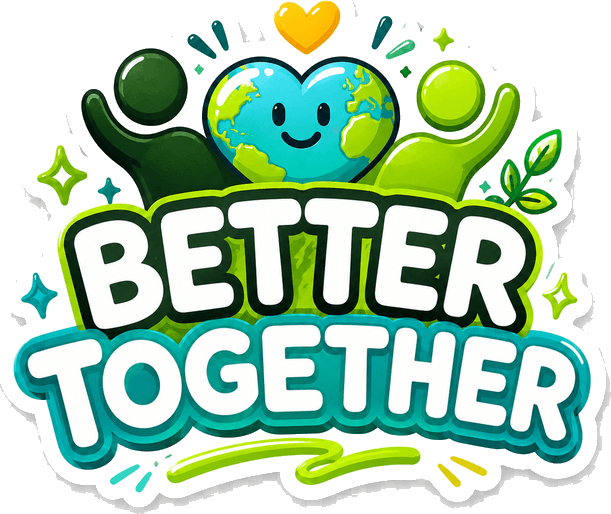
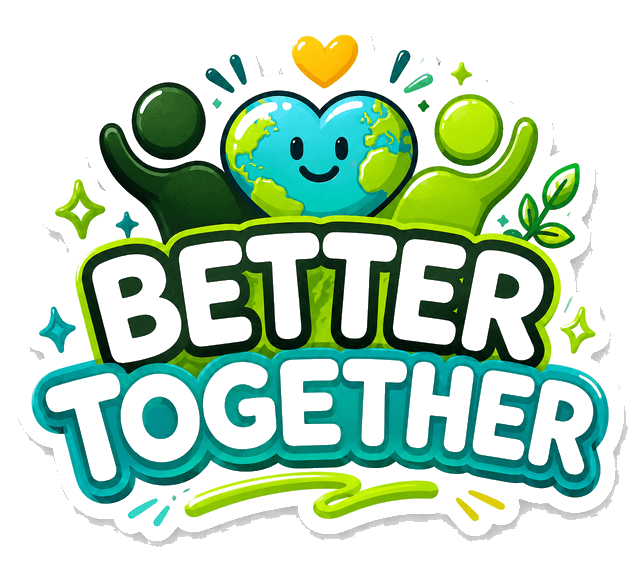
Fix GrowCred asset framing and sticker transparency

diff --git a/src/components/challenge-hub.tsx b/src/components/challenge-hub.tsx
@@ -71,7 +71,7 @@ export function ChallengeHub({ challenges }: ChallengeHubProps) {
           <p className="mt-3 max-w-2xl text-sm font-semibold leading-7 text-white/72">
             {featured.description}
           </p>
-          <div className="mt-6 grid gap-3 sm:grid-cols-3">
+          <div className="mt-6 hidden gap-3 lg:grid lg:grid-cols-3">
             <Metric
               label="Reward"
               value={`+${featured.reward}`}
@@ -89,19 +89,38 @@ export function ChallengeHub({ challenges }: ChallengeHubProps) {
             />
           </div>
         </div>
-        <div className="order-first rounded-[1.1rem] bg-white/10 p-3 lg:order-none">
+        <div className="rounded-[1.1rem] bg-white/10 p-3">
           {featuredBanner ? (
-            <Image
-              src={featuredBanner}
-              alt={`${featured.title} GrowCred challenge banner`}
-              width={1536}
-              height={1024}
-              priority
-              loading="eager"
-              sizes="(min-width: 1024px) 38vw, 92vw"
-              className="designed-asset-frame mb-4 aspect-[16/9] w-full object-contain p-2"
-            />
+            <div className="designed-asset-frame mb-4 overflow-hidden p-1.5">
+              <Image
+                src={featuredBanner}
+                alt={`${featured.title} GrowCred challenge banner`}
+                width={1672}
+                height={941}
+                priority
+                loading="eager"
+                sizes="(min-width: 1024px) 38vw, 92vw"
+                className="block h-auto w-full rounded-[0.75rem] object-contain"
+              />
+            </div>
           ) : null}
+          <div className="mb-4 grid gap-2 lg:hidden">
+            <Metric
+              label="Reward"
+              value={`+${featured.reward}`}
+              detail="TreeCoins"
+            />
+            <Metric
+              label="Participants"
+              value={formatNumber(featured.participants)}
+              detail={featured.teamType}
+            />
+            <Metric
+              label="Progress"
+              value={`${featured.progress}%`}
+              detail="Verified path"
+            />
+          </div>
           <div className="flex items-start justify-between gap-4">
             <p className="text-sm font-black text-lime">Proof needed</p>
             <Image
@@ -184,15 +203,17 @@ export function ChallengeHub({ challenges }: ChallengeHubProps) {
               className="living-card flex min-h-[24rem] flex-col overflow-hidden"
             >
               {challengeBanners[challenge.id] ? (
-                <Image
-                  src={challengeBanners[challenge.id]}
-                  alt={`${challenge.title} GrowCred challenge banner`}
-                  width={1536}
-                  height={1024}
-                  loading={challenge.id === featured.id ? "eager" : "lazy"}
-                  sizes="(min-width: 1280px) 31vw, (min-width: 768px) 48vw, 92vw"
-                  className="designed-asset-frame m-2.5 aspect-[16/9] w-[calc(100%-1.25rem)] object-contain p-1.5 ring-1 ring-forest/10"
-                />
+                <div className="designed-asset-frame m-2.5 overflow-hidden p-1.5 ring-1 ring-forest/10">
+                  <Image
+                    src={challengeBanners[challenge.id]}
+                    alt={`${challenge.title} GrowCred challenge banner`}
+                    width={1672}
+                    height={941}
+                    loading={challenge.id === featured.id ? "eager" : "lazy"}
+                    sizes="(min-width: 1280px) 31vw, (min-width: 768px) 48vw, 92vw"
+                    className="block h-auto w-full rounded-[0.75rem] object-contain"
+                  />
+                </div>
               ) : null}
               <div className="flex flex-1 flex-col p-6">
                 <div className="flex items-start justify-between gap-4">

diff --git a/src/components/hero-section.tsx b/src/components/hero-section.tsx
@@ -33,7 +33,10 @@ export function HeroSection() {
       <LivingBackdrop />
       <div className="mx-auto grid max-w-7xl gap-8 lg:grid-cols-[0.82fr_1.18fr] lg:items-center">
         <FadeIn className="max-w-3xl lg:py-12">
-          <StickerBadge>GrowCred community</StickerBadge>
+          <StickerBadge className="gap-1.5">
+            <span>GrowCred</span>
+            <span>community</span>
+          </StickerBadge>
 
           <p className="mt-6 inline-flex items-center gap-2 text-xs font-black uppercase tracking-[0.16em] text-leaf sm:text-sm sm:tracking-[0.18em]">
             <Sparkles aria-hidden="true" className="h-4 w-4" />
@@ -72,11 +75,11 @@ export function HeroSection() {
               <Image
                 src={GROWCRED_ASSETS.site.heroLanding}
                 alt="GrowCred app preview showing tree proof, verified care, and TreeCoin rewards"
-                width={1680}
-                height={960}
+                width={1672}
+                height={941}
                 priority
                 sizes="(min-width: 1024px) 52vw, 94vw"
-                className="aspect-[16/10] w-full object-contain"
+                className="block h-auto w-full object-contain"
               />
             </div>
             <figcaption className="grid gap-3 px-1 pb-1 pt-4 sm:grid-cols-[minmax(0,0.9fr)_minmax(15rem,0.8fr)] sm:items-stretch sm:px-2">

diff --git a/src/components/challenge-card.tsx b/src/components/challenge-card.tsx
@@ -30,13 +30,14 @@ export function ChallengeCard({ challenge }: ChallengeCardProps) {
     <HoverLift className="h-full">
       <article className="living-card flex h-full flex-col overflow-hidden">
         {banner ? (
-          <div className="designed-asset-frame relative aspect-[16/9] m-2.5 overflow-hidden ring-1 ring-forest/10">
+          <div className="designed-asset-frame m-2.5 overflow-hidden p-1.5 ring-1 ring-forest/10">
             <Image
               src={banner}
               alt={`${challenge.title} GrowCred challenge banner`}
-              fill
+              width={1672}
+              height={941}
               sizes="(min-width: 1280px) 33vw, (min-width: 768px) 50vw, 100vw"
-              className="object-contain p-1.5"
+              className="block h-auto w-full rounded-[0.75rem] object-contain"
             />
           </div>
         ) : null}

diff --git a/src/components/logo-mark.tsx b/src/components/logo-mark.tsx
@@ -4,6 +4,7 @@ import { cn } from "@/lib/utils";
 
 interface LogoMarkProps {
   className?: string;
+  framed?: boolean;
   showWordmark?: boolean;
   size?: "xs" | "sm" | "md" | "lg";
 }
@@ -24,6 +25,7 @@ const lockupSizeClassName = {
 
 export function LogoMark({
   className,
+  framed = false,
   showWordmark = false,
   size = "md",
 }: LogoMarkProps) {
@@ -33,7 +35,9 @@ export function LogoMark({
         role="img"
         aria-label="GrowCred - Plant. Prove. Protect."
         className={cn(
-          "brand-lockup-shell logo-breathe inline-flex shrink-0 items-center rounded-2xl px-2.5 py-1.5 backdrop-blur",
+          "logo-breathe inline-flex shrink-0 items-center",
+          framed &&
+            "brand-lockup-shell rounded-[0.9rem] px-2.5 py-1.5 backdrop-blur",
           className,
         )}
       >
